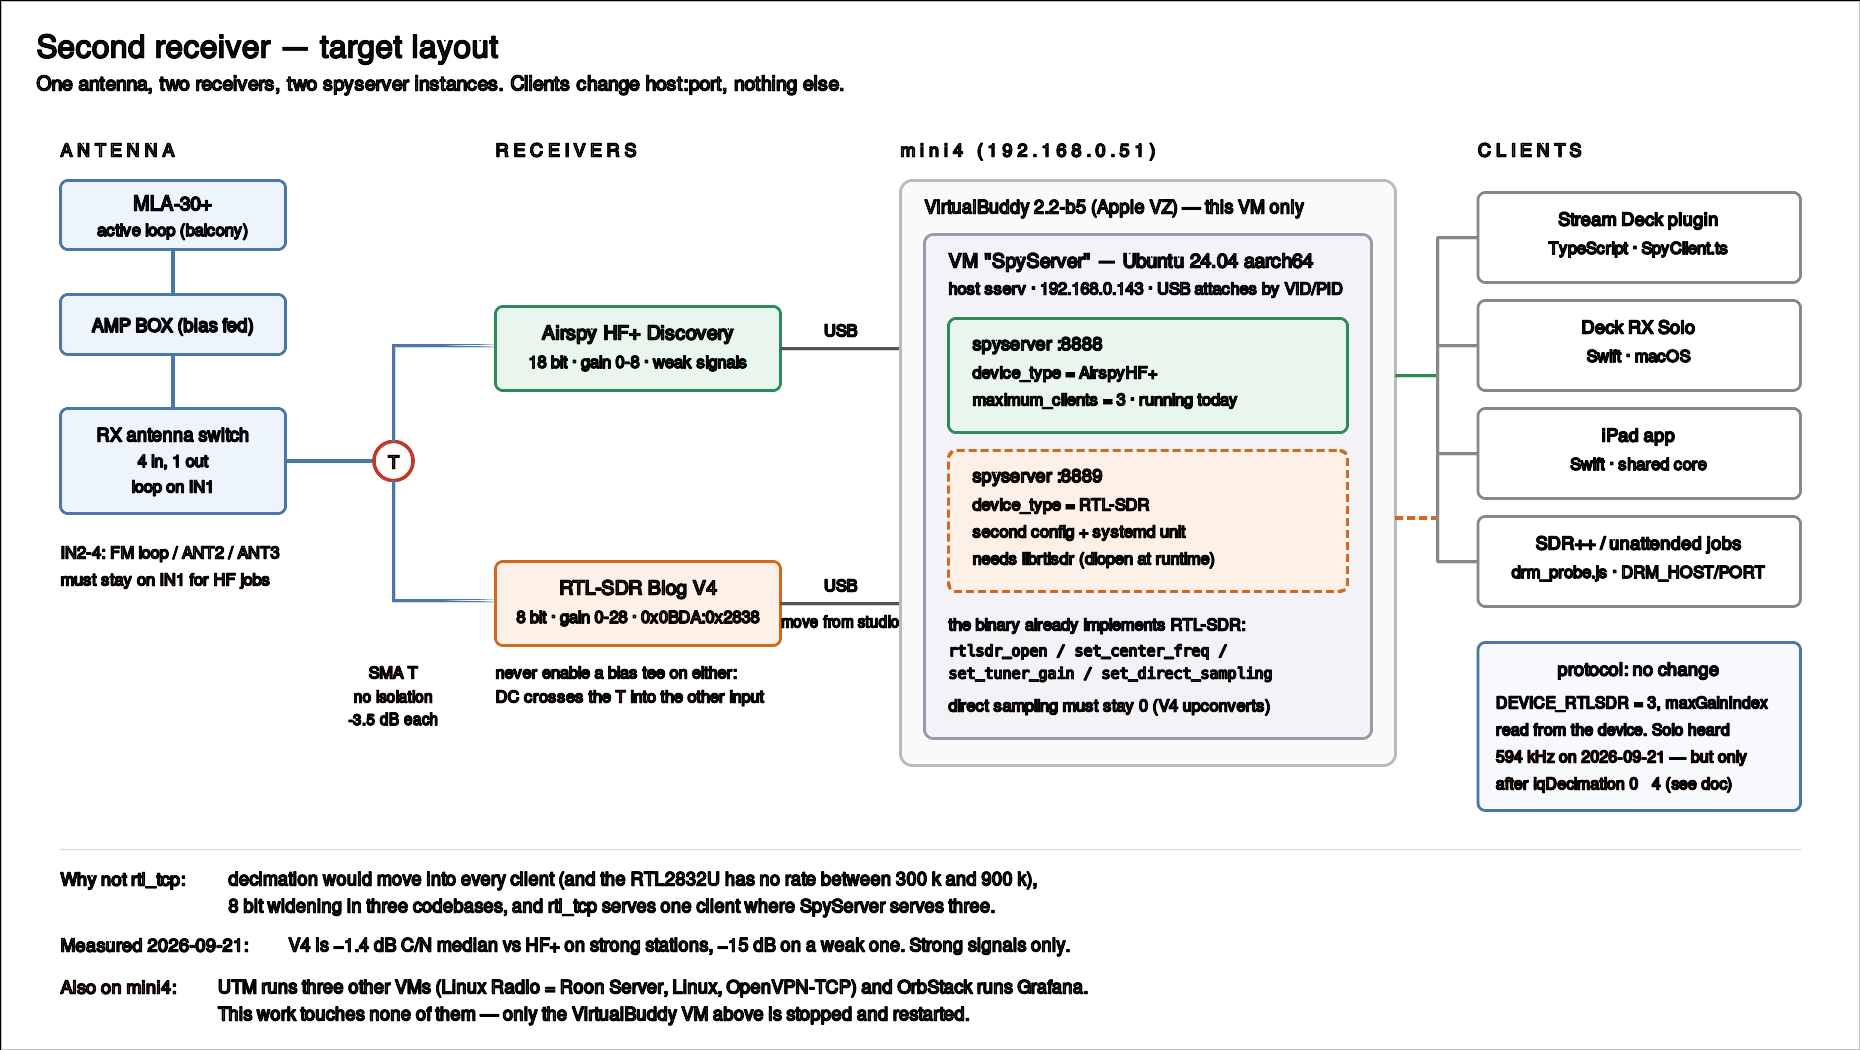
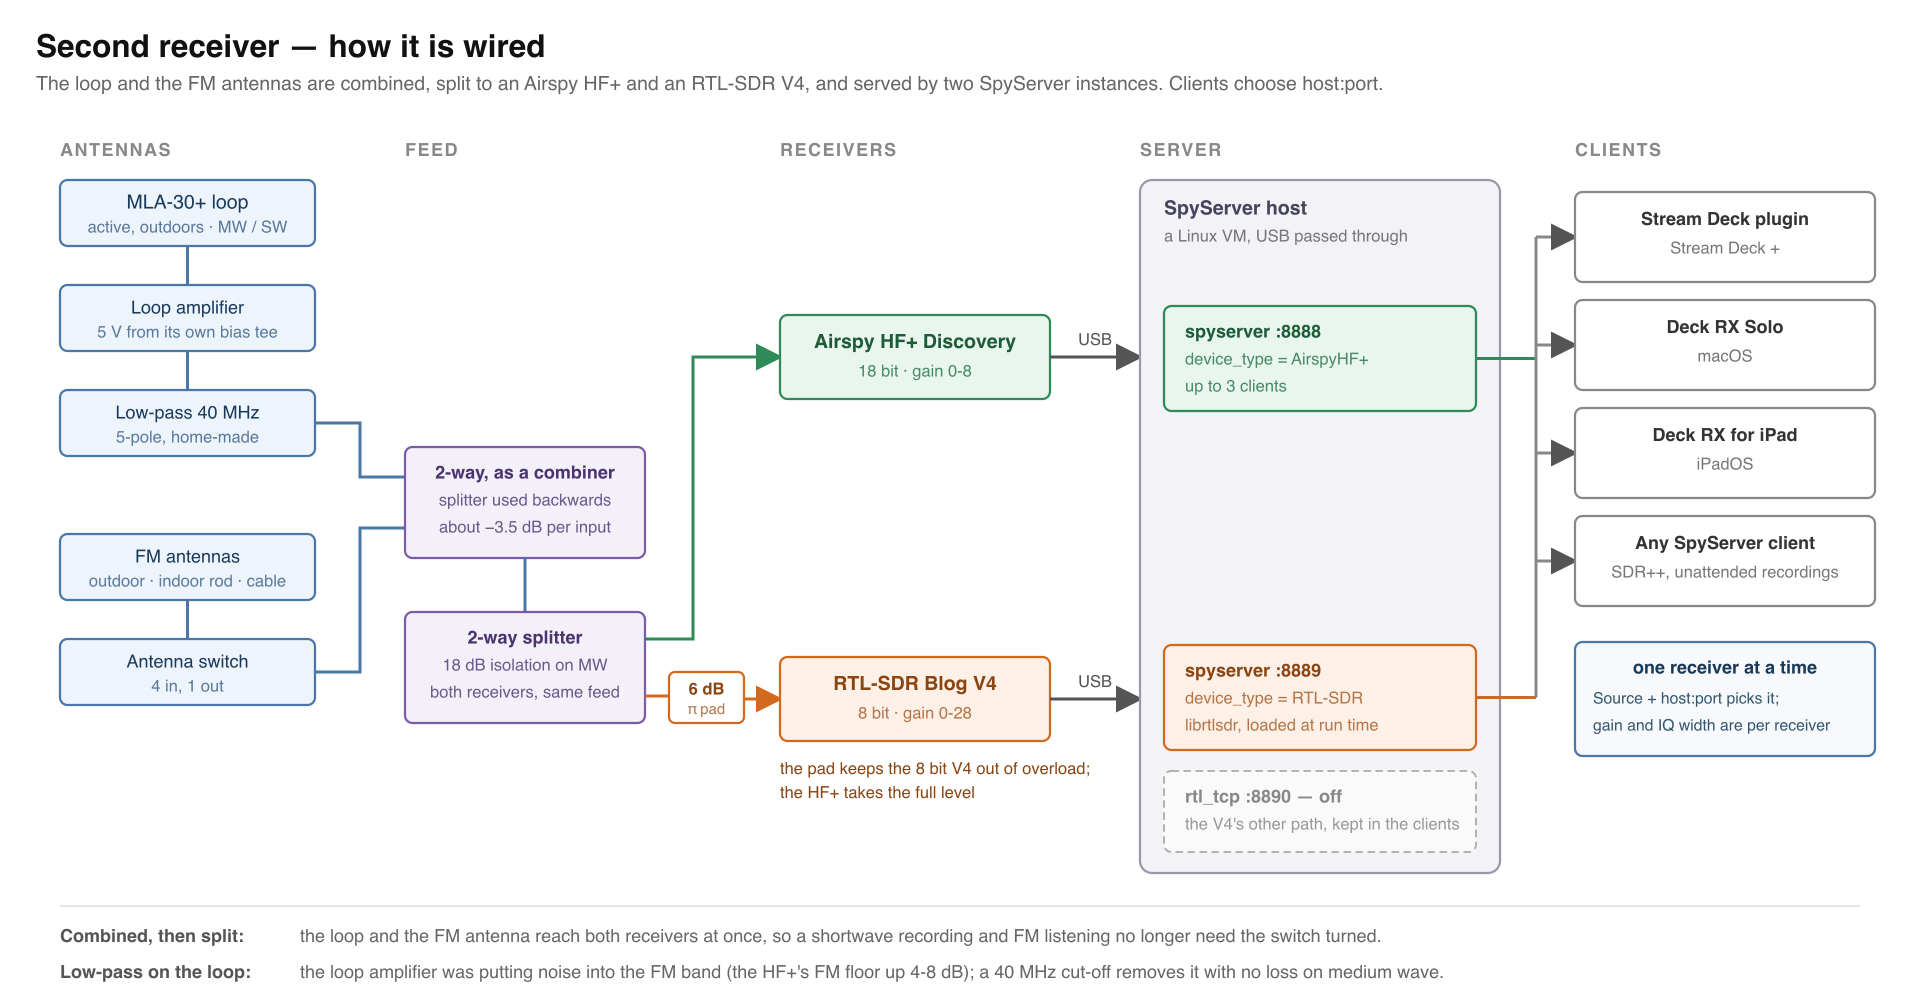
docs: the second-receiver diagram shows the wiring as it is
It still drew the September plan: an SMA T between the receivers, the V4 to be
moved, a second SpyServer to be set up. Now: loop and FM antennas through a
combiner, a splitter, a 6 dB pad on the V4's branch, a 40 MHz low-pass on the
loop, SpyServer on 8888 and 8889, rtl_tcp kept but off. The house's addresses
and the other VMs on that host are no longer in the picture.

diff --git a/docs/second-receiver.md b/docs/second-receiver.md
@@ -141,7 +141,7 @@ On the sserv VM (`/usr/local/bin/spyserver`, Ubuntu 24.04 aarch64):
 
 ## The layout
 
-![Second receiver — target layout](second-receiver.png)
+![Second receiver — how it is wired](second-receiver.png)
 
 ## Two ways, and why the first one won in the end
 
